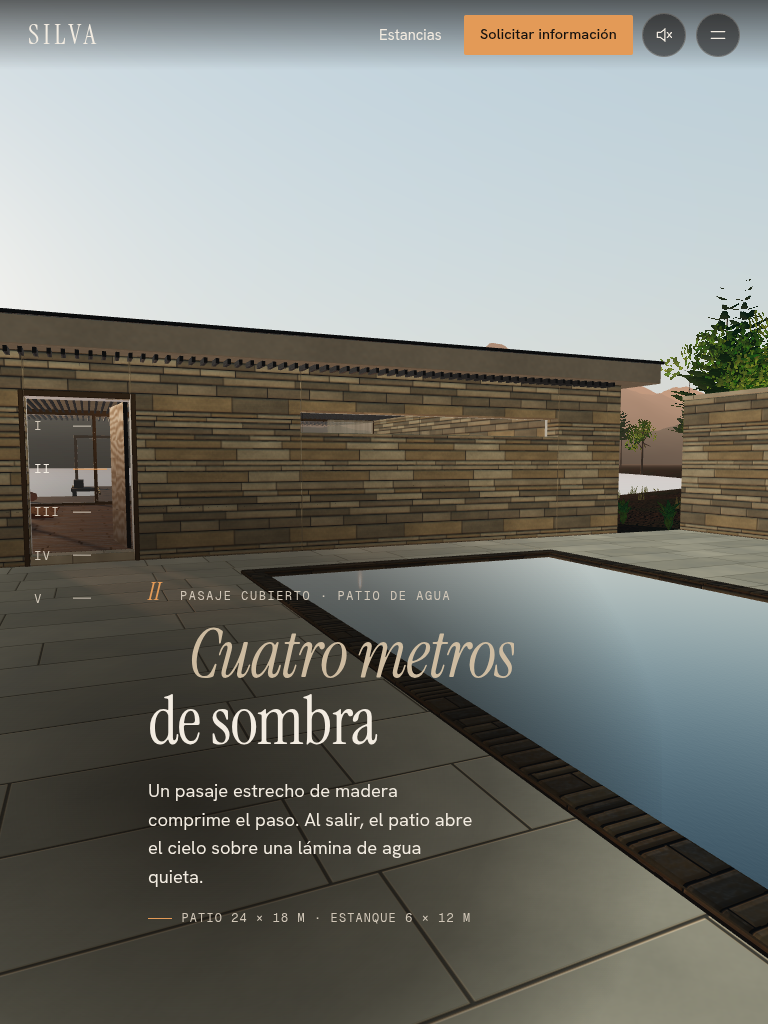
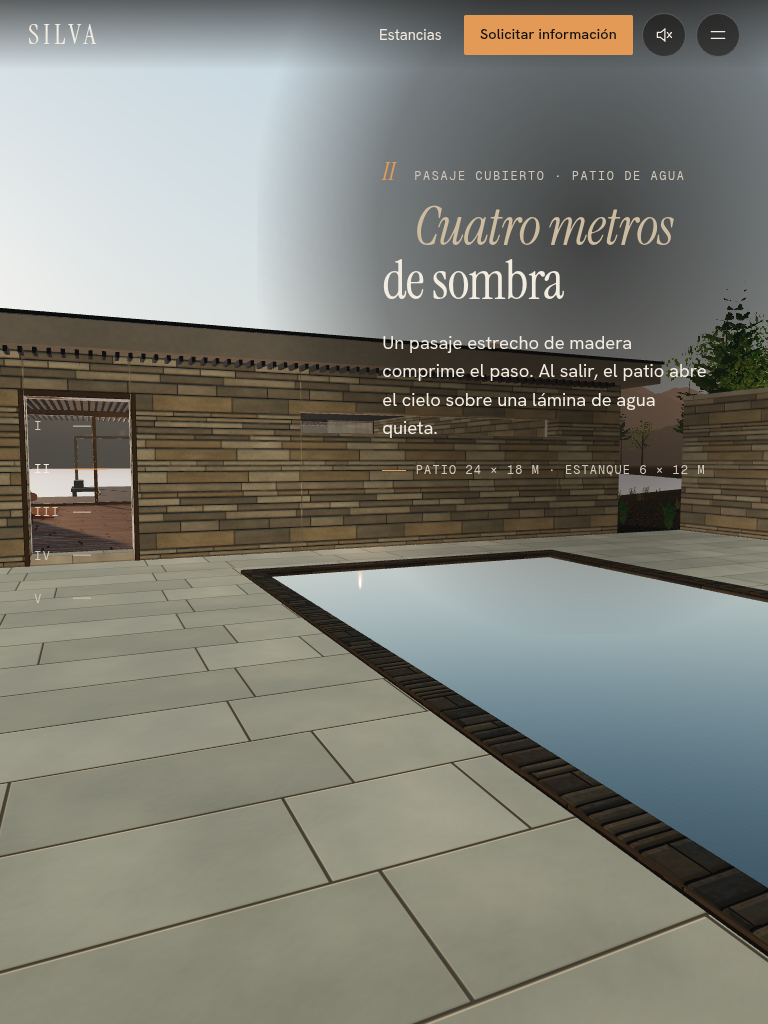
Iteración 1: renders, capturas 390/768/1440 y QA 30/30 actualizados
Claude-Session: https://claude.ai/code/session_019yZVpmMyppo6RDUtSzW144

diff --git a/docs/estudio/proyecto/evidencias.md b/docs/estudio/proyecto/evidencias.md
@@ -4,13 +4,13 @@ Entorno de prueba: contenedor Linux, 4 núcleos, **sin GPU**. Chromium 1194 head
 
 ## Trayectoria (observado)
 ```
-Sólidos: 33 · muestras: 4001 · longitud: 23.95 pantallas
-Distancia mínima: 0.782 m en u=11.04 pos=-1.58,1.8,-5.96
+Sólidos: 35 · muestras: 4001 · longitud: 23.95 pantallas
+Distancia mínima: 0.630 m en u=11.75 pos=-1.93,1.74,-6.84
 OK: ninguna muestra a menos de 0.3 m de un sólido.
 Altura mínima sobre el terreno exterior: 1.44 m en 2.6,9.4,74
 ```
 
-## QA funcional — `node scripts/qa.mjs` (observado, 2026-10-05)
+## QA funcional — `node scripts/qa.mjs` (observado, tras iteración 1)
 ```
 OK   Sin desbordamiento horizontal a 390px (estático) — {"sw":390,"W":390,"bad":[]}
 OK   Versión estática con 5 planos de capítulo a 390px
@@ -38,7 +38,7 @@ OK   Movimiento reducido activa planos fijos — {"mode":"reduced","rm":true}
 OK   Salto a capítulo V usa el plano fijo final (clave 13) — 13
 OK   Consola sin errores (movimiento reducido)
 OK   Sin WebGL: cae a la versión estática
-OK   Carga de la escena (SwiftShader, calidad baja) — 9957 ms hasta escena lista
+OK   Carga de la escena (SwiftShader, calidad baja) — 9928 ms hasta escena lista
 OK   Hotspots visibles en la suite — lino,lampara
 OK   Detalle mueve la cámara a la perspectiva adicional — mezcla 0.93
 OK   Consola sin errores (en vivo)
